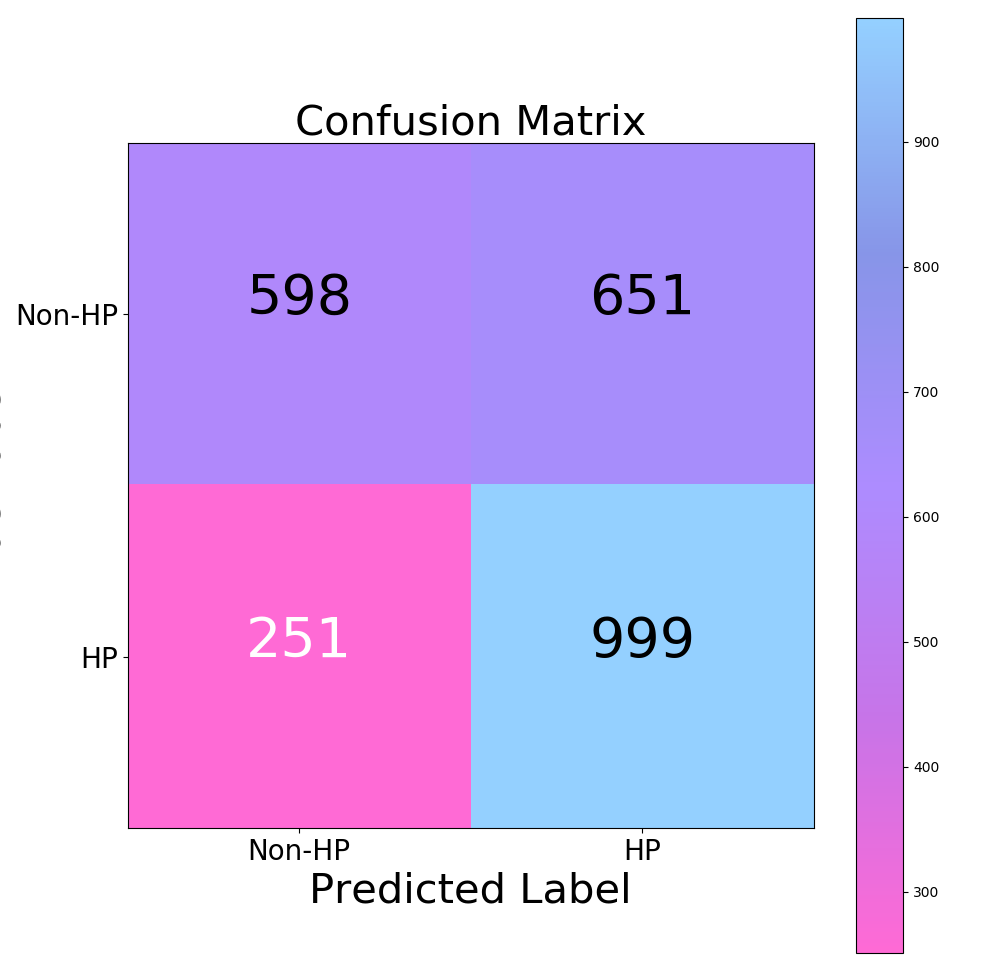
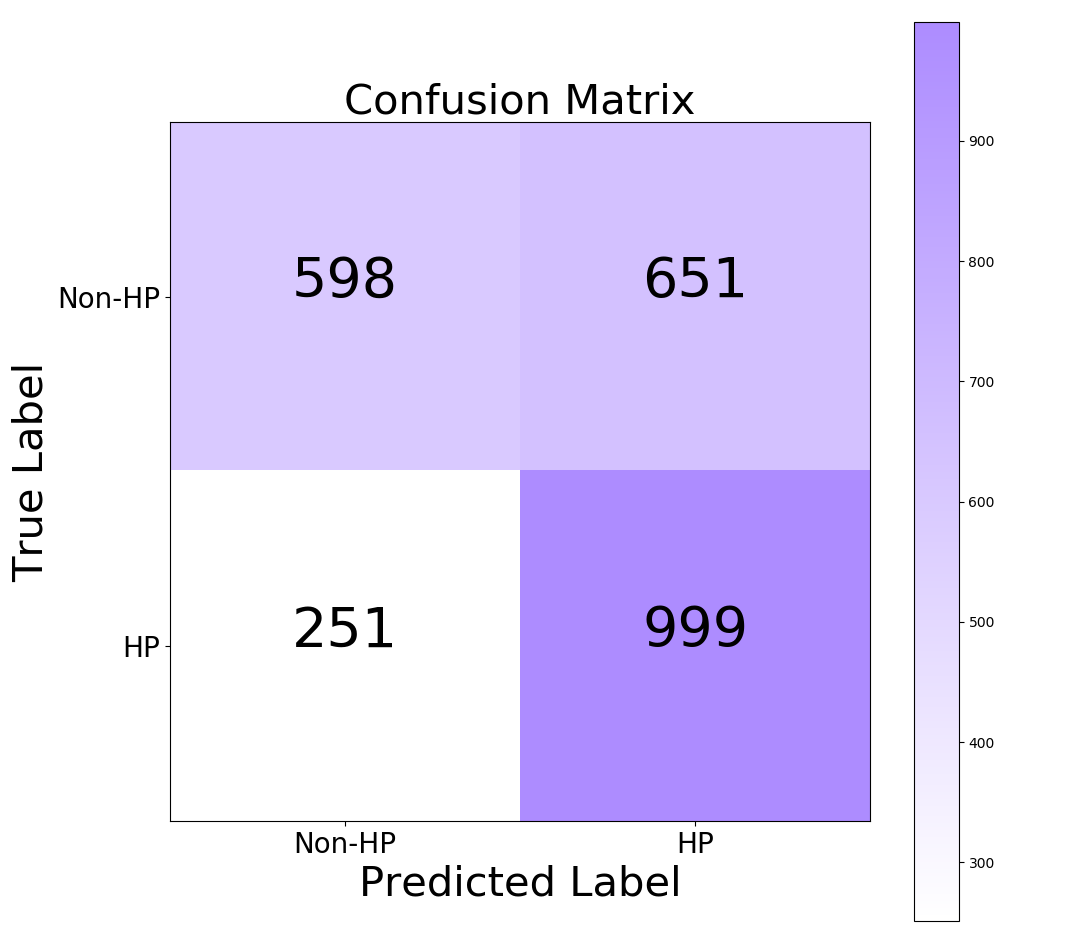
Work on plotting important features

diff --git a/src/models/plot.py b/src/models/plot.py
@@ -13,8 +13,9 @@ import matplotlib
 import matplotlib.patches as mpatches
 
 COOL_LIST = ["#FF6AD5", "#C774E8", "#AD8CFF", "#8795E8", "#94D0FF"]
+COOL_LIST_MONO = ['#FFFFFF', "#AD8CFF"]
 COOL_PAL = matplotlib.colors.ListedColormap(COOL_LIST)
-COOL_PAL_CONT = matplotlib.colors.LinearSegmentedColormap.from_list('cool', COOL_LIST)
+COOL_PAL_CONT_MONO = matplotlib.colors.LinearSegmentedColormap.from_list('cool', COOL_LIST_MONO)
 
 def plot_LSA(X_train, test_labels, plot=True, title='LSA'):
 
@@ -39,13 +40,13 @@ def plot_LSA(X_train, test_labels, plot=True, title='LSA'):
 
 def plot_confusion_matrix(y_test, y_predicted_counts, normalize=False, title='Confusion Matrix'):
 
-    fig = plt.figure(figsize=(10, 10))
+    fig = plt.figure(figsize=(8, 8))
 
     cm = confusion_matrix(y_test, y_predicted_counts)
     classes = ['Non-HP', 'HP']
     if normalize:
         cm = cm.astype('float') / cm.sum(axis=1)[:, np.newaxis]
-    plt.imshow(cm, interpolation='nearest', cmap=COOL_PAL_CONT)
+    plt.imshow(cm, interpolation='nearest', cmap=COOL_PAL_CONT_MONO)
     plt.title(title, fontsize=30)
     plt.colorbar()
     tick_marks = np.arange(len(classes))
@@ -53,13 +54,52 @@ def plot_confusion_matrix(y_test, y_predicted_counts, normalize=False, title='Co
     plt.yticks(tick_marks, classes, fontsize=20)
 
     fmt = '.2f' if normalize else 'd'
-    thresh = cm.max() / 2.
 
     for i, j in itertools.product(range(cm.shape[0]), range(cm.shape[1])):
         plt.text(j, i, format(cm[i,j], fmt), horizontalalignment="center",
-                 color="white" if cm[i,j] < thresh else "black", fontsize=40)
+                 color="black", fontsize=40)
 
     plt.tight_layout()
     plt.ylabel('True Label', fontsize=30)
     plt.xlabel('Predicted Label', fontsize=30)
     plt.show(block=True)
+
+
+def plot_important_words(importance, title):
+
+    top_scores = [a[0] for a in importance[0]['tops']]
+    top_words = [a[1] for a in importance[0]['tops']]
+    bottom_scores = [a[0] for a in importance[0]['bottom']]
+    bottom_words = [a[1] for a in importance[0]['bottom']]
+
+    y_pos = np.arange(len(top_words))
+    top_pairs = [(a,b) for a,b in zip(top_words, top_scores)]
+    top_pairs = sorted(top_pairs, key=lambda x: x[1])
+    
+    bottom_pairs = [(a,b) for a,b in zip(bottom_words, bottom_scores)]
+    bottom_pairs = sorted(bottom_pairs, key=lambda x: x[1], reverse=True)
+    
+    top_words = [a[0] for a in top_pairs]
+    top_scores = [a[1] for a in top_pairs]
+    
+    bottom_words = [a[0] for a in bottom_pairs]
+    bottom_scores = [a[1] for a in bottom_pairs]
+    
+    fig = plt.figure(figsize=(10, 10))  
+
+    plt.subplot(121)
+    plt.barh(y_pos,bottom_scores, align='center', alpha=0.5)
+    plt.title('Non-HP', fontsize=20)
+    plt.yticks(y_pos, bottom_words, fontsize=14)
+    plt.suptitle('Key words', fontsize=16)
+    plt.xlabel('Importance', fontsize=20)
+    
+    plt.subplot(122)
+    plt.barh(y_pos,top_scores, align='center', alpha=0.5)
+    plt.title('HP', fontsize=20)
+    plt.yticks(y_pos, top_words, fontsize=14)
+    plt.suptitle(title, fontsize=16)
+    plt.xlabel('Importance', fontsize=20)
+    
+    plt.subplots_adjust(wspace=0.8)
+    plt.show()

diff --git a/src/begin.py b/src/begin.py
@@ -9,6 +9,7 @@ from sklearn.externals import joblib
 import os
 import glob
 import models.plot
+import models.EDA
 
 def main():
 
@@ -47,7 +48,7 @@ def main():
     val_path = glob.glob(DATA_PROCESSED_PATH + 'val*.csv')[0]
 
     # TFIDF
-    X_train, X_test, y_train, y_test = create_tfidf(train_path, val_path)
+    X_train, X_test, y_train, y_test, cv = create_tfidf(train_path, val_path)
 
     # TFIDF LSA
     models.plot.plot_LSA(X_train, y_train, title='TF-IDF LSA')
@@ -58,6 +59,10 @@ def main():
 
     # Confusion Matrix
     models.plot.plot_confusion_matrix(y_test, best_tfidf_model_predictions)
+
+    # Important Features
+    #importance = models.EDA.get_most_important_features(cv, best_tfidf_model, 10)
+    #models.plot.plot_important_words(importance, "Most important words for relevance")
 
     # Serialize and save best model
     MODEL_PATH = '../model/'

diff --git a/src/models/EDA.py b/src/models/EDA.py
@@ -1,0 +1,21 @@
+"""
+@author: Jonathan
+@credit: https://github.com/hundredblocks/concrete_NLP_tutorial/blob/master/NLP_notebook.ipynb
+"""
+
+def get_most_important_features(vectorizer, model, n=5):
+    index_to_word = {v:k for k,v in vectorizer.vocabulary_.items()}
+    
+    # loop for each class
+    classes ={}
+    for class_index in range(model.coef_.shape[0]):
+        word_importances = [(el, index_to_word[i]) for i,el in enumerate(model.coef_[class_index])]
+        sorted_coeff = sorted(word_importances, key = lambda x : x[0], reverse=True)
+        tops = sorted(sorted_coeff[:n], key = lambda x : x[0])
+        bottom = sorted_coeff[-n:]
+        classes[class_index] = {
+            'tops':tops,
+            'bottom':bottom
+        }
+    
+    return classes
